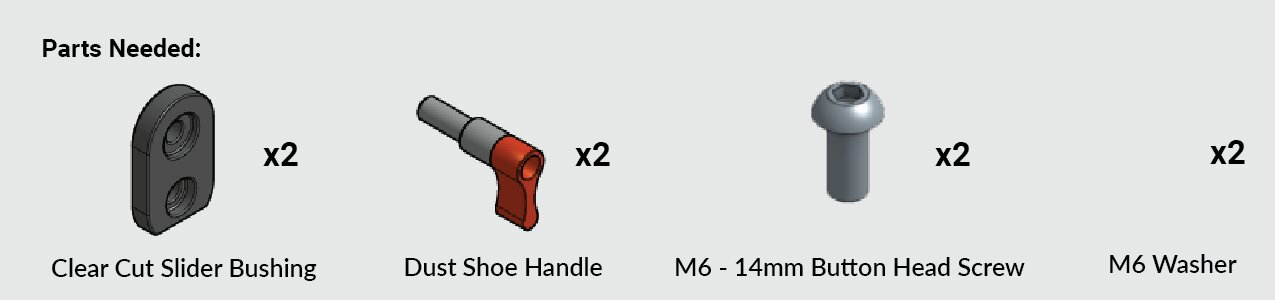
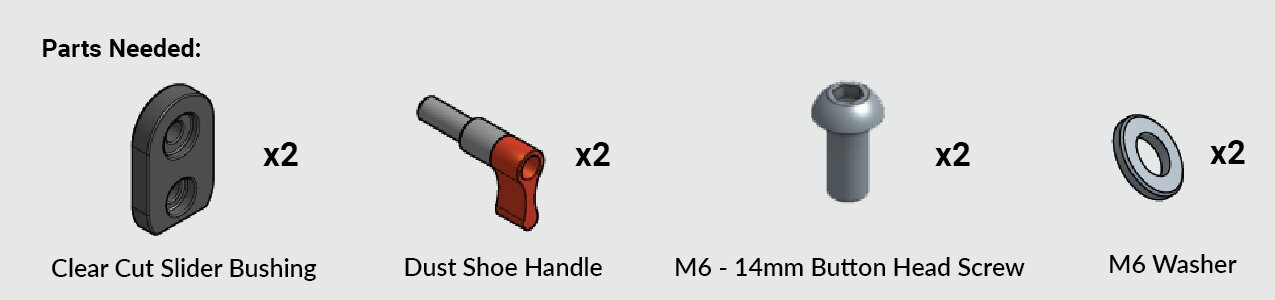
washer and rack wiring headers tweaks

Changed region(s): [[0.8565, 0.36, 0.9482, 0.69]]

diff --git a/atc/atc-assembly/atc-tool-rack-and-tls.md b/atc/atc-assembly/atc-tool-rack-and-tls.md
@@ -174,12 +174,7 @@ Fully secure the connection using **two (2) M6 - 8mm button head screws** per si
 [Render] Overview picture of the path the sensor cable takes from the rack to the SLB EXT
 (atc_assembly_tool-header)
 
-[Render] Parts Needed:
-
-1x Completed Rack Assembly
-1x Rack Sensor Cable
-
----
+![](/_images/_atc/_atc_assembly/_toolrack/atc_assembly_tool-parts4.png){.aligncenter .size-full .wid}
 
 1. Route the **rack sensor cable** through the cable clips in the crossbeam. For **4×8**, route the cable **underneath** the cable track.
 
